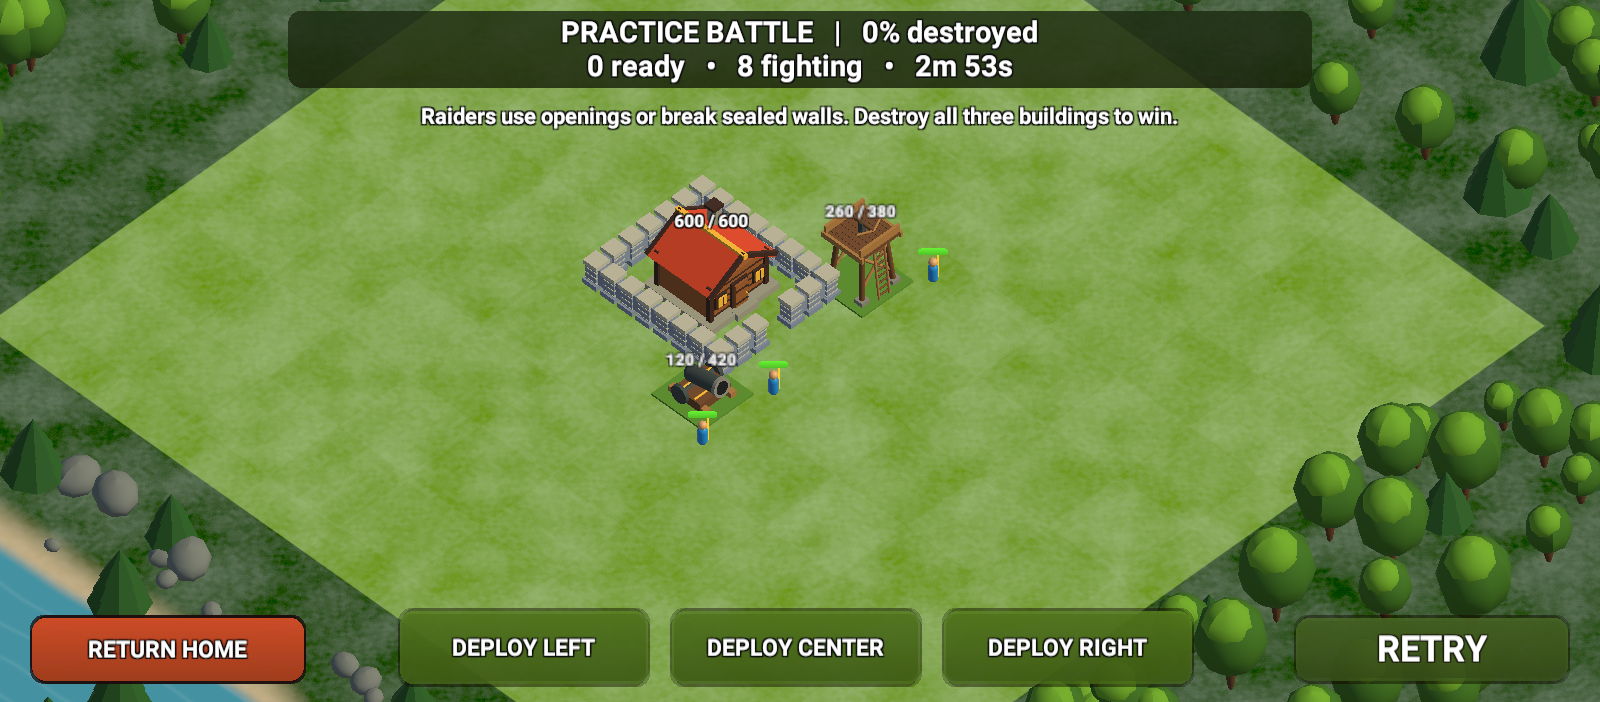
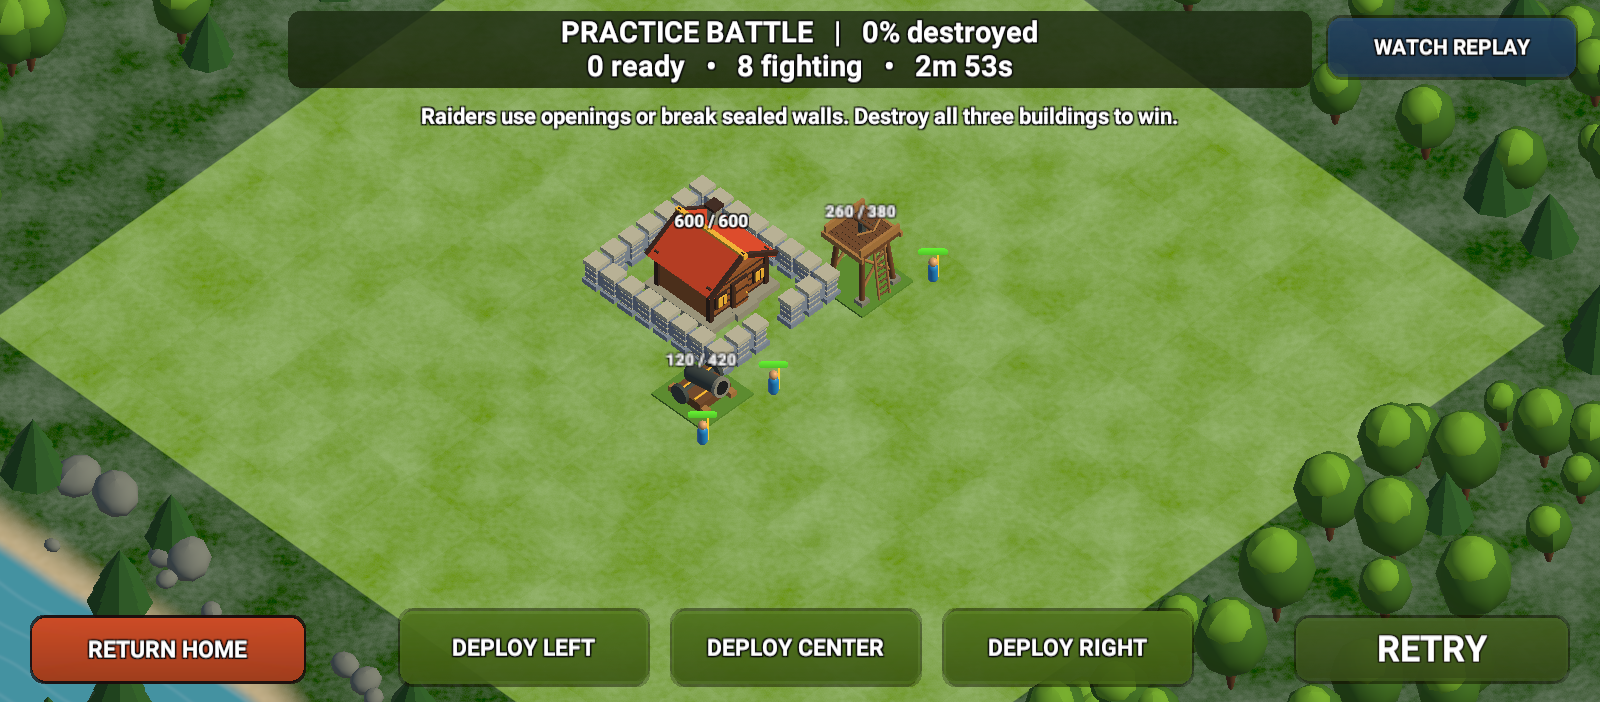
Add deterministic practice battle replay and beginner walkthrough

Changed region(s): [[0.8125, 0.0, 1.0, 0.1197]]

diff --git a/Assets/Scripts/UI/VillagePracticeBattle.cs b/Assets/Scripts/UI/VillagePracticeBattle.cs
@@ -7,10 +7,11 @@ namespace Kingdoms.UI
     public sealed partial class VillageGameplay
     {
         PracticeBattle practiceBattle;
+        PracticeReplay practiceReplay;
         GameObject practiceWorld,practiceCanvas;
         RectTransform practiceSafe;
         Text practiceStatus,practiceInstructions;
-        Button practiceRetry;
+        Button practiceRetry,practiceWatch;
         readonly List<Button> practiceDeployButtons=new List<Button>();
         readonly Dictionary<int,GameObject> practiceModels=new Dictionary<int,GameObject>();
         readonly Dictionary<int,Text> practiceHealth=new Dictionary<int,Text>();
@@ -22,6 +23,8 @@ namespace Kingdoms.UI
         bool practicePaused;
         public bool PracticeOpen=>practiceBattle!=null;
         public PracticeBattle CurrentPracticeBattle=>practiceBattle;
+        public bool WatchingPracticeReplay=>practiceReplay!=null;
+        public bool PracticeReplayMatches=>practiceReplay!=null && practiceReplay.Matches;
 
         public void OpenPracticeBattle()
         {
@@ -45,6 +48,8 @@ namespace Kingdoms.UI
             }
             var back=Button("Return From Practice",practiceSafe,"RETURN HOME",new Vector2(.02f,.03f),new Vector2(.19f,.12f),new Color(.8f,.3f,.15f));ReferenceText(back.GetComponentInChildren<Text>(),23,Color.white);back.onClick.AddListener(ClosePracticeBattle);
             practiceRetry=Button("Retry Practice",practiceSafe,"RETRY",new Vector2(.81f,.03f),new Vector2(.98f,.12f),new Color(.45f,.64f,.24f));practiceRetry.onClick.AddListener(ResetPracticeBattle);
+            practiceWatch=Button("Watch Practice Replay",practiceSafe,"WATCH REPLAY",new Vector2(.83f,.89f),new Vector2(.985f,.975f),new Color(.22f,.45f,.65f));
+            ReferenceText(practiceWatch.GetComponentInChildren<Text>(),21,Color.white);practiceWatch.onClick.AddListener(WatchPracticeReplay);
             raiderCloth=PracticeMaterial("Raider tunic",new Color(.1f,.55f,.8f));raiderSkin=PracticeMaterial("Raider skin",new Color(.9f,.65f,.4f));shotMaterial=PracticeMaterial("Practice shots",new Color(1,.8f,.16f),true);
             ResetPracticeBattle();
         }
@@ -55,18 +60,29 @@ namespace Kingdoms.UI
         }
 
         public void ResetPracticeBattle()
+        {StartPracticeBattle(null);}
+        public void WatchPracticeReplay()
+        {
+            if(practiceBattle==null || practiceBattle.Outcome==PracticeOutcome.Running)return;
+            StartPracticeBattle(practiceBattle.Record());
+        }
+        void StartPracticeBattle(PracticeBattle.Recording recording)
         {
             if(practiceCanvas==null)return;
             if(practiceWorld!=null){practiceWorld.SetActive(false);Destroy(practiceWorld);}
             foreach(var label in practiceHealth.Values){label.gameObject.SetActive(false);Destroy(label.gameObject);}
             practiceModels.Clear();practiceHealth.Clear();practiceShots.Clear();practiceAccumulator=0;practicePaused=false;
-            practiceBattle=new PracticeBattle();practiceWorld=new GameObject("Practice Battlefield");practiceWorld.transform.SetParent(transform,false);
+            practiceReplay=recording==null ? null : new PracticeReplay(recording);
+            practiceBattle=practiceReplay==null ? new PracticeBattle() : practiceReplay.Battle;
+            practiceWorld=new GameObject("Practice Battlefield");practiceWorld.transform.SetParent(transform,false);
             foreach(var building in practiceBattle.Buildings)
             {
                 var model=Instantiate(PrefabFor(building.Kind),practiceWorld.transform);model.name="Practice "+building.Kind;model.SetActive(true);
                 model.transform.position=PracticePosition(building);practiceModels.Add(building.Id,model);AddPracticeHealth(building);
             }
             practiceInstructions.text="Raiders use openings or break sealed walls. Destroy all three buildings to win.";
+            if(WatchingPracticeReplay)practiceInstructions.text="Watching your recorded attack. Deployments play automatically.";
+            foreach(var raider in practiceBattle.Raiders)CreatePracticeRaider(raider);
             foreach(var wall in practiceWorld.GetComponentsInChildren<WallSegment>())wall.RefreshConnections();
             RefreshPracticeBattle();
         }
@@ -85,14 +101,18 @@ namespace Kingdoms.UI
 
         public void DeployPracticeRaider(int lane)
         {
-            if(practiceBattle==null || !practiceBattle.Deploy(lane))return;
+            if(practiceBattle==null || WatchingPracticeReplay || !practiceBattle.Deploy(lane))return;
             var raider=practiceBattle.Raiders[practiceBattle.Raiders.Count-1];
+            CreatePracticeRaider(raider);RefreshPracticeBattle();
+        }
+        void CreatePracticeRaider(PracticeBattle.Entity raider)
+        {
             var root=new GameObject("Practice Raider "+raider.Id);root.transform.SetParent(practiceWorld.transform,false);
             root.transform.position=PracticePosition(raider);
             var body=GameObject.CreatePrimitive(PrimitiveType.Capsule);body.transform.SetParent(root.transform,false);body.transform.localPosition=new Vector3(0,.55f,0);body.transform.localScale=new Vector3(.43f,.48f,.43f);body.GetComponent<Renderer>().sharedMaterial=raiderCloth;Destroy(body.GetComponent<Collider>());
             var head=GameObject.CreatePrimitive(PrimitiveType.Sphere);head.transform.SetParent(root.transform,false);head.transform.localPosition=new Vector3(0,1.12f,0);head.transform.localScale=Vector3.one*.38f;head.GetComponent<Renderer>().sharedMaterial=raiderSkin;Destroy(head.GetComponent<Collider>());
             var spear=GameObject.CreatePrimitive(PrimitiveType.Cube);spear.transform.SetParent(root.transform,false);spear.transform.localPosition=new Vector3(.3f,.73f,0);spear.transform.localScale=new Vector3(.06f,1.25f,.06f);spear.GetComponent<Renderer>().sharedMaterial=shotMaterial;Destroy(spear.GetComponent<Collider>());
-            practiceModels.Add(raider.Id,root);AddPracticeHealth(raider);RefreshPracticeBattle();
+            practiceModels.Add(raider.Id,root);AddPracticeHealth(raider);
         }
 
         void TickPracticeBattle()
@@ -102,7 +122,9 @@ namespace Kingdoms.UI
             practiceAccumulator+=Mathf.Min(Time.unscaledDeltaTime,.5f);
             while(practiceAccumulator>=.1f)
             {
-                practiceAccumulator-=.1f;practiceBattle.Step();
+                practiceAccumulator-=.1f;
+                if(practiceReplay==null)practiceBattle.Step();else practiceReplay.Step();
+                foreach(var raider in practiceBattle.Raiders)if(!practiceModels.ContainsKey(raider.Id))CreatePracticeRaider(raider);
                 foreach(var strike in practiceBattle.Strikes)ShowPracticeStrike(strike);
             }
             practiceShots.RemoveAll(shot=>shot==null);
@@ -122,9 +144,13 @@ namespace Kingdoms.UI
             foreach(var building in practiceBattle.Buildings)RefreshPracticeEntity(building);
             bool running=practiceBattle.Outcome==PracticeOutcome.Running;
             practiceStatus.text=(running ? "PRACTICE BATTLE" : practiceBattle.Outcome.ToString().ToUpperInvariant())+"   |   "+practiceBattle.Destruction+"% destroyed\n"+practiceBattle.Remaining+" ready   •   "+alive+" fighting   •   "+Duration((PracticeBattle.TimeLimitTicks-practiceBattle.Tick)/10);
-            foreach(var button in practiceDeployButtons)button.interactable=running && practiceBattle.Remaining>0;
+            if(WatchingPracticeReplay)practiceStatus.text="REPLAY  |  "+practiceStatus.text;
+            foreach(var button in practiceDeployButtons)button.interactable=running && !WatchingPracticeReplay && practiceBattle.Remaining>0;
             practiceRetry.interactable=!running;
-            if(!running)practiceInstructions.text="Practice complete. No resources were spent or awarded. Retry, or return to your village.";
+            practiceWatch.interactable=!running;
+            if(!running)practiceInstructions.text=WatchingPracticeReplay
+                ? (PracticeReplayMatches ? "Replay complete. Result matches the original attack." : "Replay mismatch detected. Retry to start a new practice attack.")
+                : "Practice complete. Watch Replay, retry, or return home. No resources were spent or awarded.";
         }
         void RefreshPracticeEntity(PracticeBattle.Entity entity)
         {
@@ -143,7 +169,7 @@ namespace Kingdoms.UI
         public void ClosePracticeBattle()
         {
             if(!PracticeOpen)return;
-            practiceBattle.Surrender();practiceBattle=null;
+            practiceBattle.Surrender();practiceBattle=null;practiceReplay=null;
             if(practiceWorld!=null){practiceWorld.SetActive(false);Destroy(practiceWorld);}
             if(practiceCanvas!=null){practiceCanvas.SetActive(false);Destroy(practiceCanvas);}
             practiceCanvas=null;practiceModels.Clear();practiceHealth.Clear();practiceShots.Clear();practiceDeployButtons.Clear();

diff --git a/Assets/Editor/PracticeBattleValidation.cs b/Assets/Editor/PracticeBattleValidation.cs
@@ -40,6 +40,7 @@ public static class PracticeBattleValidation
     static void StateChecks()
     {
         NavigationChecks(false);NavigationChecks(true);
+        ReplayChecks();
         var first=new PracticeBattle();var second=new PracticeBattle();
         Check(!first.Deploy(-1) && !first.Deploy(3) && first.Remaining==8,"Invalid deployment lanes");
         for(int i=0;i<8;i++){Check(first.Deploy(i%3) && second.Deploy(i%3),"Legal deployments");}
@@ -81,6 +82,32 @@ public static class PracticeBattleValidation
         Check(wallHit==sealedWalls,"Open entrance is preferred; sealed walls require a breach");
         Check(battle.Destruction==100,"Surviving walls do not prevent full destruction score");
     }
+    static void ReplayChecks()
+    {
+        foreach(bool sealedWalls in new[]{false,true})
+        {
+            var original=new PracticeBattle(sealedWalls);var hashes=new System.Collections.Generic.List<ulong>();
+            original.Deploy(0);original.Deploy(2);hashes.Add(original.StateHash());
+            while(original.Outcome==PracticeOutcome.Running)
+            {
+                original.Step();
+                if(original.Tick==20){original.Deploy(1);original.Deploy(1);}
+                if(original.Tick==45)for(int i=0;i<4;i++)original.Deploy(i%3);
+                hashes.Add(original.StateHash());
+            }
+            var record=original.Record();Check(record.Deployments.Count==8,"Only accepted deployments recorded");
+            var replay=new PracticeReplay(record);Check(replay.Battle.StateHash()==hashes[0],"Tick-zero replay commands");
+            while(!replay.Finished){replay.Step();Check(replay.Battle.StateHash()==hashes[replay.Battle.Tick],"Replay matches every original tick");}
+            Check(replay.Matches,"Replay final result and hash match");
+            var final=replay.Battle.StateHash();replay.Step();Check(final==replay.Battle.StateHash(),"Finished replay is stable");
+        }
+        var stopped=new PracticeBattle();stopped.Deploy(1);for(int i=0;i<13;i++)stopped.Step();stopped.Surrender();
+        var surrendered=new PracticeReplay(stopped.Record());while(!surrendered.Finished)surrendered.Step();Check(surrendered.Matches,"Replay timed surrender");
+        var idle=new PracticeBattle();for(int i=0;i<1800;i++)idle.Step();
+        var timeout=new PracticeReplay(idle.Record());while(!timeout.Finished)timeout.Step();Check(timeout.Matches,"Replay empty-army timeout");
+        var changed=new PracticeBattle();changed.Deploy(0);changed.Raiders[0].HitPoints=1;changed.Surrender();
+        Check(!new PracticeReplay(changed.Record()).Matches,"Hash detects unrecorded state modification");
+    }
     static void Capture(string name)
     {typeof(ResourceMilestoneValidation).GetMethod("Capture",BindingFlags.Static|BindingFlags.NonPublic).Invoke(null,new object[]{name,1600,702});}
     static void Tick()
@@ -113,11 +140,25 @@ public static class PracticeBattleValidation
                 if(game.CurrentPracticeBattle.Outcome==PracticeOutcome.Running)return;
                 Check(game.CurrentPracticeBattle.Outcome==PracticeOutcome.Victory,"Real-time practice victory");Capture("practice-results.png");
                 Check(JsonUtility.ToJson(game.State)==SessionState.GetString("PracticeBattle.Home","") && PlayerPrefs.GetString(VillageSave.Key)==SessionState.GetString("PracticeBattle.Save",""),"Battle cannot mutate home or saved economy");
-                Click("Retry Practice");Check(game.PracticeOpen && game.CurrentPracticeBattle.Remaining==8 && game.CurrentPracticeBattle.Tick==0,"Retry resets practice only");
+                Click("Watch Practice Replay");Check(game.WatchingPracticeReplay && !GameObject.Find("Deploy Raider 0").GetComponent<Button>().interactable,"Replay locks manual deployment");
+                int count=game.CurrentPracticeBattle.Raiders.Count;game.DeployPracticeRaider(1);Check(count==game.CurrentPracticeBattle.Raiders.Count,"Direct deployment rejected during replay");
+                SessionState.SetInt("PracticeBattle.Step",3);return;
+            }
+            if(step==3)
+            {
+                if(game.CurrentPracticeBattle.Tick<70)return;
+                Capture("practice-replay.png");SessionState.SetInt("PracticeBattle.Step",4);return;
+            }
+            if(step==4)
+            {
+                if(game.CurrentPracticeBattle.Outcome==PracticeOutcome.Running)return;
+                Check(game.PracticeReplayMatches,"UI replay matches original battle");
+                Check(JsonUtility.ToJson(game.State)==SessionState.GetString("PracticeBattle.Home","") && PlayerPrefs.GetString(VillageSave.Key)==SessionState.GetString("PracticeBattle.Save",""),"Replay preserves home state and save");
+                Click("Retry Practice");Check(game.PracticeOpen && !game.WatchingPracticeReplay && game.CurrentPracticeBattle.Remaining==8 && game.CurrentPracticeBattle.Tick==0,"Retry resets practice only");
                 Click("Return From Practice");Check(!game.PracticeOpen && !game.cameraController.InputBlocked && GameObject.Find("Shop")!=null,"Return restores village and camera");
                 Check(JsonUtility.ToJson(game.State)==SessionState.GetString("PracticeBattle.Home",""),"Returning does not change village state");
                 Click("Attack Menu");Click("Deploy Raider 0");Click("Return From Practice");Check(!game.PracticeOpen,"Early return abandons encounter safely");
-                Finish("PASS: entrance routing; sealed-wall breach and replanning; footprint collision checks; walls excluded from victory score; fixed-tick repeatability; deployment limits; defense range/damage/cooldown; both sides attack; victory/defeat/timeout/surrender; terminal-state guard; real-time Attack/deploy/results/retry/return UI; exact home-state and save preservation. Unity "+Application.unityVersion+". No rewards, multiplayer or phone validation.",0);
+                Finish("PASS: per-tick replay equality for open/sealed layouts; timed commands; surrender/timeout replay; state mismatch detection; replay UI and deployment lock; replay save preservation; entrance routing; sealed-wall breach and replanning; footprint collision checks; walls excluded from victory score; fixed-tick repeatability; deployment limits; defense range/damage/cooldown; both sides attack; victory/defeat/timeout/surrender; terminal-state guard; real-time Attack/deploy/results/retry/return UI; exact home-state and save preservation. Unity "+Application.unityVersion+". No rewards, multiplayer or phone validation.",0);
             }
         }
         catch(Exception e){Debug.LogException(e);Finish("FAIL: "+e,1);}

diff --git a/Assets/Scripts/Core/PracticeBattle.cs b/Assets/Scripts/Core/PracticeBattle.cs
@@ -17,6 +17,27 @@ namespace Kingdoms
             public bool Alive=>HitPoints>0;
         }
         public struct Strike { public int From,To; public Strike(int from,int to){From=from;To=to;} }
+        public readonly struct Deployment
+        {
+            public readonly int Tick,Lane;
+            public Deployment(int tick,int lane){Tick=tick;Lane=lane;}
+        }
+        public sealed class Recording
+        {
+            public const int RulesVersion=1;
+            public readonly bool SealedEnclosure;
+            public readonly int EndTick;
+            public readonly PracticeOutcome Outcome;
+            public readonly ulong FinalHash;
+            public readonly IReadOnlyList<Deployment> Deployments;
+            internal Recording(PracticeBattle battle)
+            {
+                SealedEnclosure=battle.sealedEnclosure;EndTick=battle.Tick;Outcome=battle.Outcome;
+                FinalHash=battle.StateHash();Deployments=Array.AsReadOnly(battle.deployments.ToArray());
+            }
+        }
+        readonly bool sealedEnclosure;
+        readonly List<Deployment> deployments=new List<Deployment>();
         readonly List<Entity> buildings=new List<Entity>();
         readonly List<Entity> raiders=new List<Entity>();
         readonly List<Strike> strikes=new List<Strike>();
@@ -33,6 +54,7 @@ namespace Kingdoms
 
         public PracticeBattle(bool sealedEnclosure=false)
         {
+            this.sealedEnclosure=sealedEnclosure;
             buildings.Add(new Entity{Id=0,Kind="TownHall",X=0,Z=300,HitPoints=600,MaxHitPoints=600,HalfSize=200});
             AddDefense(BuildingCatalog.Cannon,1,-450,-100);
             AddDefense(BuildingCatalog.ArcherTower,2,450,-100);
@@ -52,6 +74,7 @@ namespace Kingdoms
         public bool Deploy(int lane)
         {
             if(Outcome!=PracticeOutcome.Running || Remaining==0 || lane<0 || lane>2)return false;
+            deployments.Add(new Deployment(Tick,lane));
             int x=(lane-1)*650;
             raiders.Add(new Entity{Id=100+raiders.Count,Kind="Raider",X=x+(raiders.Count%3-1)*35,Z=-1350,
                 HitPoints=90,MaxHitPoints=90,Damage=20,Range=85});
@@ -161,5 +184,49 @@ namespace Kingdoms
             else if(Tick>=TimeLimitTicks)Outcome=PracticeOutcome.Timeout;
         }
         public void Surrender(){if(Outcome==PracticeOutcome.Running)Outcome=PracticeOutcome.Surrendered;strikes.Clear();}
+        public Recording Record()
+        {
+            if(Outcome==PracticeOutcome.Running)throw new InvalidOperationException("Finish the encounter before recording its result.");
+            return new Recording(this);
+        }
+        // Stable numeric FNV-1a hash; no runtime-dependent string hash codes.
+        public ulong StateHash()
+        {
+            ulong hash=14695981039346656037UL;
+            Action<int> add=value=>{unchecked{for(int i=0;i<4;i++){hash^=(byte)(value>>(i*8));hash*=1099511628211UL;}}};
+            add(Recording.RulesVersion);add(sealedEnclosure ? 1 : 0);add(Tick);add((int)Outcome);add(Remaining);
+            foreach(var list in new[]{buildings,raiders})
+            {
+                add(list.Count);
+                foreach(var e in list){add(e.Id);add(e.X);add(e.Z);add(e.HitPoints);add(e.MaxHitPoints);add(e.Damage);add(e.Range);add(e.HalfSize);add(e.NextAttack);}
+            }
+            return hash;
+        }
+    }
+
+    // Replays accepted commands at their original tick, independently of frame rate.
+    public sealed class PracticeReplay
+    {
+        readonly PracticeBattle.Recording recording;
+        int nextCommand;
+        public PracticeBattle Battle {get;}
+        public bool Finished=>Battle.Outcome!=PracticeOutcome.Running;
+        public bool Matches=>Finished && Battle.Tick==recording.EndTick && Battle.Outcome==recording.Outcome && Battle.StateHash()==recording.FinalHash;
+        public PracticeReplay(PracticeBattle.Recording recording)
+        {
+            this.recording=recording ?? throw new ArgumentNullException(nameof(recording));
+            Battle=new PracticeBattle(recording.SealedEnclosure);ApplyCommands();
+        }
+        void ApplyCommands()
+        {
+            while(nextCommand<recording.Deployments.Count && recording.Deployments[nextCommand].Tick==Battle.Tick)
+                Battle.Deploy(recording.Deployments[nextCommand++].Lane);
+            if(Battle.Tick==recording.EndTick && recording.Outcome==PracticeOutcome.Surrendered)Battle.Surrender();
+        }
+        public void Step()
+        {
+            if(Finished){Battle.Step();return;}
+            Battle.Step();ApplyCommands();
+        }
     }
 }

diff --git a/BEGINNER_GUIDE.md b/BEGINNER_GUIDE.md
@@ -45,7 +45,7 @@ The project is a Clash of Clans-inspired village prototype with its own Kingdoms
 | Economy | Gold and elixir production, collection, storage limits and offline accrual |
 | Progression | Two builders, timed upgrades through level 3, Town Hall limits, confirmed cancellation with a storage-capped 50% refund |
 | Defenses | Purchase, move, inspect range and upgrade; home defenses remain idle |
-| Practice battle | Eight raiders, three enemy buildings, walls, entrance routing, wall breach logic, results, retry and return |
+| Practice battle | Eight raiders, three enemy buildings, walls, entrance routing, wall breach logic, results, watch replay, retry and return |
 | Persistence | Local version 3 village saves; migrations from versions 1 and 2 |
 | Mobile setup | Welcome scene first, village second, landscape orientation, Android IL2CPP/ARM64 settings |
 
@@ -485,7 +485,7 @@ The main component is [VillageGameplay.cs](Assets/Scripts/UI/VillageGameplay.cs)
 5. Tap Attack! to open Practice Battle. Deploy Left, Center or Right spends one of eight practice raiders per tap.
 6. Watch raiders avoid footprints and approach the enclosed Town Hall through its entrance. If all remaining buildings are sealed off, the simulation can target and break a wall; the sealed layout is currently a validation scenario.
 7. Destroy all three buildings to win. Walls do not count toward destruction percentage. Losing all eight deployed raiders is defeat; the timer ends the battle after three minutes. You may return home early.
-8. After a result, choose Retry to reset the encounter or Return Home to restore your village and camera.
+8. After a result, choose Watch Replay to watch the same attack again. Deployments play automatically and deployment buttons are disabled. The result reports whether playback matches the original. Choose Retry to start a new playable encounter or Return Home to restore your village and camera.
 
 [PracticeBattle.cs](Assets/Scripts/Core/PracticeBattle.cs) runs combat in integer positions at 100 ms ticks, independently of Unity rendering. It uses a half-cell navigation grid, stable route ordering and route rebuilding when a structure is destroyed. [VillagePracticeBattle.cs](Assets/Scripts/UI/VillagePracticeBattle.cs) creates models, buttons, health bars and firing traces. Eight raiders may overlap; unit separation is not implemented.
 
@@ -683,3 +683,12 @@ Added the screenshot-inspired HUD, shop, resource models and scenery; builder qu
 Validation evidence: [builder queue](BuilderQueueValidation.txt), [upgrade cancellation](UpgradeCancellationValidation.txt), [reference UI](ScreenshotReferenceValidation.txt), [defenses](DefenseVillageValidation.txt), and [practice battle](PracticeBattleValidation.txt). Practice checks passed entrance preference, sealed-wall breach, route rebuilding, footprint avoidance, deterministic combat, terminal outcomes, retry/return controls and exact home-state/save preservation. [Current battle preview](PracticePreviews/practice-combat.png).
 
 These checks used the isolated `.utmp/ResourceValidation` Unity project and its separate PlayerPrefs identity. Do not run validation entry points against your real village or change their identity guards to force them to run. No APK was rebuilt for these additions; phone performance and the full mobile flow remain unverified.
+
+
+### Practice battle replay update
+
+The results screen now offers **Watch Replay**. Each accepted deployment records its lane and simulation tick. `PracticeReplay` in [PracticeBattle.cs](Assets/Scripts/Core/PracticeBattle.cs) rebuilds the fixed encounter and applies these commands at the same ticks. A stable numeric state hash checks the final outcome, positions, health and attack timers against the recording. The recording includes its enclosure setting and uses rules version 1.
+
+**Try it:** Deploy two raiders, wait a few seconds, deploy the others, and finish the attack. Watch Replay and observe the same delay between deployments. Manual deployment is disabled during playback. Retry leaves replay mode and restores eight playable raiders. Return Home also works during playback.
+
+Recordings stay in memory for the current encounter. Retry, returning home or closing the application discards access to that replay. There is no replay export, saved replay browser, speed control or compatibility with older combat rules. This is local fixed-layout playback, not server verification. Validation checks every tick for open and sealed layouts, timed surrender, timeout, mismatch detection, UI controls and home-save preservation. See [PracticeBattleValidation.txt](PracticeBattleValidation.txt) and [replay preview](PracticePreviews/practice-replay.png). No APK rebuild or physical-phone replay test was performed.

diff --git a/PRACTICE_BATTLE_PROGRESS.md b/PRACTICE_BATTLE_PROGRESS.md
@@ -19,6 +19,13 @@ Practice has no purchase costs, loot, trophies, progression rewards or saved arm
 
 `PracticeBattleValidation.Run` is restricted to the isolated Unity test project. It checks entrance preference, a sealed-enclosure breach and replanning, live-footprint collision avoidance, wall-independent victory scoring, repeatable tick states, deployment bounds/caps, range, damage, cooldowns, both sides attacking, all terminal outcomes, real-time deployment and victory, results/retry/return UI, and exact preservation of the home state and saved JSON during the encounter. Evidence is in `PracticeBattleValidation.txt` and `PracticePreviews`.
 
-This is an offline combat slice, not the completed battle system. Navigation currently supports the fixed practice encounter, with a sealed variant exercised by validation; it is not an arbitrary-village pathfinding system. Remaining work includes unit separation, arbitrary village snapshots, defense levels in battle, troops/army training, manual ground deployment, animations/projectiles, campaign opponents, rewards, replay records, authoritative online battles, and physical-phone performance testing. No APK was rebuilt.
+This is an offline combat slice, not the completed battle system. Navigation currently supports the fixed practice encounter, with a sealed variant exercised by validation; it is not an arbitrary-village pathfinding system. Remaining work includes unit separation, arbitrary village snapshots, defense levels in battle, troops/army training, manual ground deployment, animations/projectiles, campaign opponents, rewards, persisted/exportable replay records, authoritative online battles, and physical-phone performance testing. No APK was rebuilt.
 
 Implementation: `Assets/Scripts/Core/PracticeBattle.cs` contains simulation rules without Unity dependencies. `Assets/Scripts/UI/VillagePracticeBattle.cs` owns the temporary models, controls and presentation. The existing Attack action routes to this mode.
+
+
+## Watch Replay
+
+Completed encounters now offer Watch Replay. Accepted deployments record their tick and lane; a read-only recording copies these commands, enclosure choice, end tick, outcome and final state hash. Rules version 1 applies to this fixed practice layout. `PracticeReplay` reconstructs the battle, applies tick-zero and delayed commands in original order, and reproduces timed surrender when present. Playback disables manual deployment and compares its final numeric state hash with the original. Retry starts a fresh live encounter; Return Home closes either mode.
+
+The recording lasts only for the current encounter in memory. There is no disk format, cross-version migration, export, replay gallery or speed control. Hashes detect differences but are not security proofs or server authority. Tests compare every tick of delayed-command runs in both enclosure layouts, plus surrender, timeout, mismatch detection and the rendered replay/retry flow. Evidence includes `PracticePreviews/practice-replay.png`.

diff --git a/GAME_DEVELOPMENT_PHASES.md b/GAME_DEVELOPMENT_PHASES.md
@@ -119,7 +119,7 @@ Done when: spend → builder assignment → waiting → completion → stronger 
 
 ### Phase 5 — Defense and battle simulation foundation
 
-23 September update: a [practice battle](PRACTICE_BATTLE_PROGRESS.md) now runs fixed integer ticks with Cannon/Archer Tower targeting, eight melee raiders, HP/damage, destruction, results, and retry/return. Raiders navigate around footprints, use a wall entrance, and breach sealed walls in the validation variant. Its state is isolated from the home village. The full phase remains partial: arbitrary snapshots, general village navigation, replay records and online validation are outstanding.
+23 September update: a [practice battle](PRACTICE_BATTLE_PROGRESS.md) now runs fixed integer ticks with Cannon/Archer Tower targeting, eight melee raiders, HP/damage, destruction, results, and retry/return. Raiders navigate around footprints, use a wall entrance, and breach sealed walls in the validation variant. Its state is isolated from the home village. The full phase remains partial: arbitrary snapshots, general village navigation, persisted replay records and online validation are outstanding. Watch Replay now reconstructs the current practice attack from timed deployment commands and checks its final state hash; validation compares every tick. Replay export and cross-version support remain outstanding.
 
 Dependencies: 1, 3; coordinate with 4.
 

diff --git a/README.md b/README.md
@@ -8,7 +8,7 @@ Latest development: [the supplied screenshot reference implementation](SCREENSHO
 
 ## Architecture
 
-Newest playable addition: [the practice battle](PRACTICE_BATTLE_PROGRESS.md). Tap Attack to deploy eight raiders against a walled practice Town Hall, Cannon and Archer Tower, then retry or return home. Raiders route through openings and can breach sealed walls. [Defense village progression](DEFENSE_VILLAGE_PROGRESS.md) supports purchases, upgrades and persistence. Full battles and multiplayer remain outstanding.
+Newest playable addition: [the practice battle](PRACTICE_BATTLE_PROGRESS.md). Tap Attack to deploy eight raiders against a walled practice Town Hall, Cannon and Archer Tower, then watch a replay, retry or return home. Raiders route through openings and can breach sealed walls. [Defense village progression](DEFENSE_VILLAGE_PROGRESS.md) supports purchases, upgrades and persistence. Full battles and multiplayer remain outstanding.
 Modular architecture built on Unity 6 and URP.
 
 ## Controls
